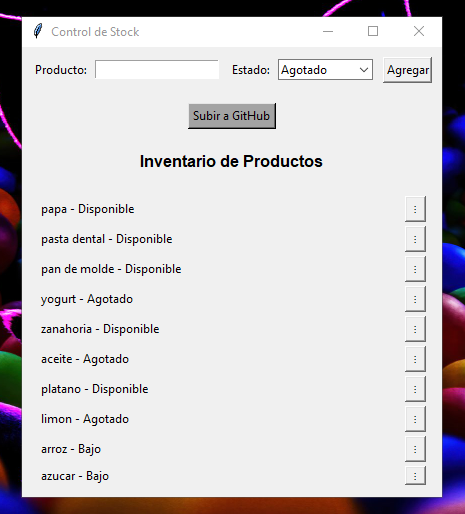
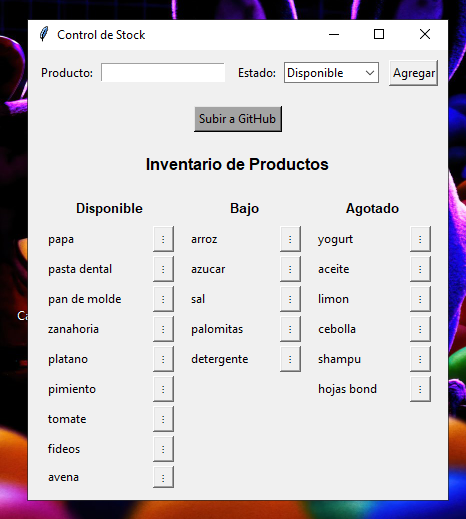
Actualización inventario 11/08 18:15

diff --git a/app/interfaz.py b/app/interfaz.py
@@ -24,17 +24,26 @@ def iniciar_interfaz():
         for widget in contenedor.winfo_children():
             widget.destroy()
 
-        for index, item in enumerate(inventario):
-            fila = tk.Frame(contenedor)
-            fila.pack(fill="x", pady=2, padx=6)
+        # Crear tres columnas para cada estado
+        frames_columnas = {}
+        for estado in ESTADOS:
+            frame_col = tk.Frame(contenedor)
+            frame_col.pack(side="left", fill="both", expand=True, padx=5)
+            tk.Label(frame_col, text=estado, font=("Arial", 10, "bold")).pack(pady=(0, 5))
+            frames_columnas[estado] = frame_col
 
-            texto = f"{item['Producto']} - {item['Estado']}"
+        for index, item in enumerate(inventario):
+            estado = item["Estado"]
+            frame_col = frames_columnas[estado]
+            fila = tk.Frame(frame_col)
+            fila.pack(fill="x", pady=2, padx=2)
+
+            texto = item['Producto']
             lbl = tk.Label(fila, text=texto, anchor="w")
             lbl.pack(side="left", fill="x", expand=True)
 
             btn = tk.Button(fila, text="⋮")
             btn.config(command=lambda idx=index, b=btn: mostrar_menu(idx, b))
-
             btn.pack(side="right")
 
     def mostrar_menu(index, boton):
@@ -69,12 +78,18 @@ def iniciar_interfaz():
     def agregar():
         nombre = entrada.get().strip()
         estado = combo_estado.get()
-        if nombre:
-            inventario.append({"Producto": nombre, "Estado": estado})
-            guardar_datos(inventario)
-            generar_html(inventario)
-            entrada.delete(0, tk.END)
-            actualizar_lista()
+        # Validación: nombre vacío o duplicado
+        if not nombre:
+            messagebox.showwarning("Advertencia", "El nombre del producto no puede estar vacío.")
+            return
+        if any(item["Producto"].lower() == nombre.lower() for item in inventario):
+            messagebox.showwarning("Advertencia", f"El producto '{nombre}' ya existe en el inventario.")
+            return
+        inventario.append({"Producto": nombre, "Estado": estado})
+        guardar_datos(inventario)
+        generar_html(inventario)
+        entrada.delete(0, tk.END)
+        actualizar_lista()
 
     # --- VENTANA PRINCIPAL ---
     global ventana
@@ -101,7 +116,7 @@ def iniciar_interfaz():
     boton_agregar = tk.Button(fila_entrada, text="Agregar", command=agregar)
     boton_agregar.pack(side="left")
 
-    # Botón para subir a GitHub, lo dejamos separado
+    # Botón para subir a GitHub
     tk.Button(ventana, text="Subir a GitHub", command=push_a_github, background="gray64").pack(pady=10)
 
     # Contenedor de productos con botones
